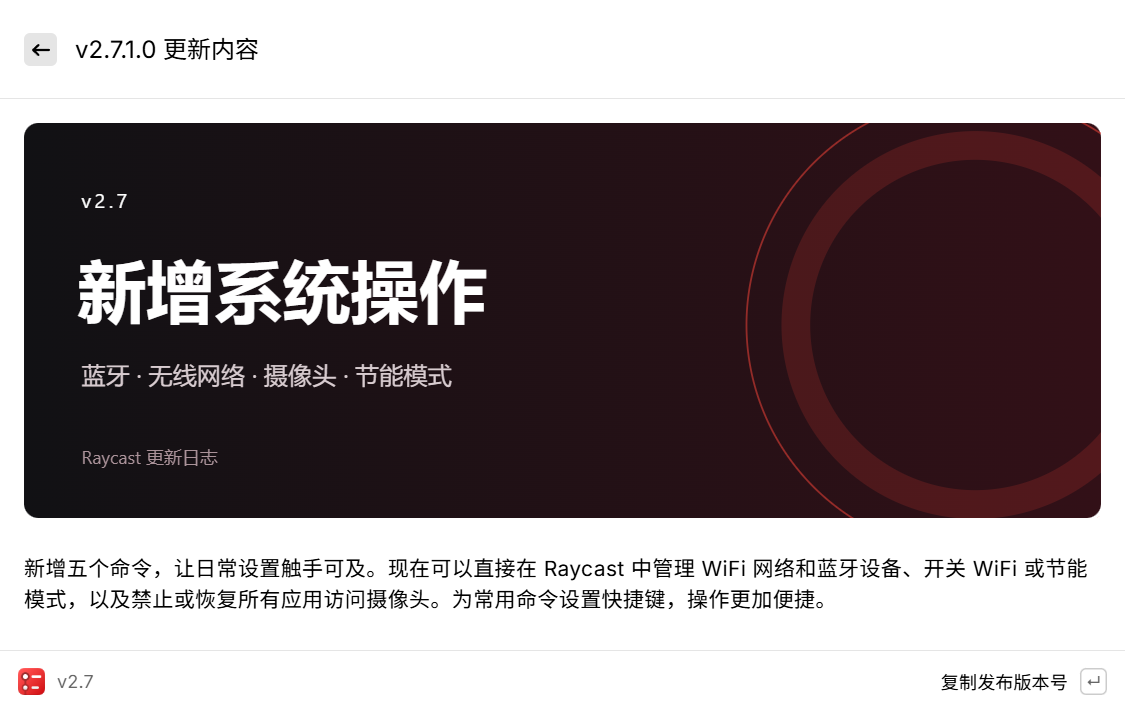
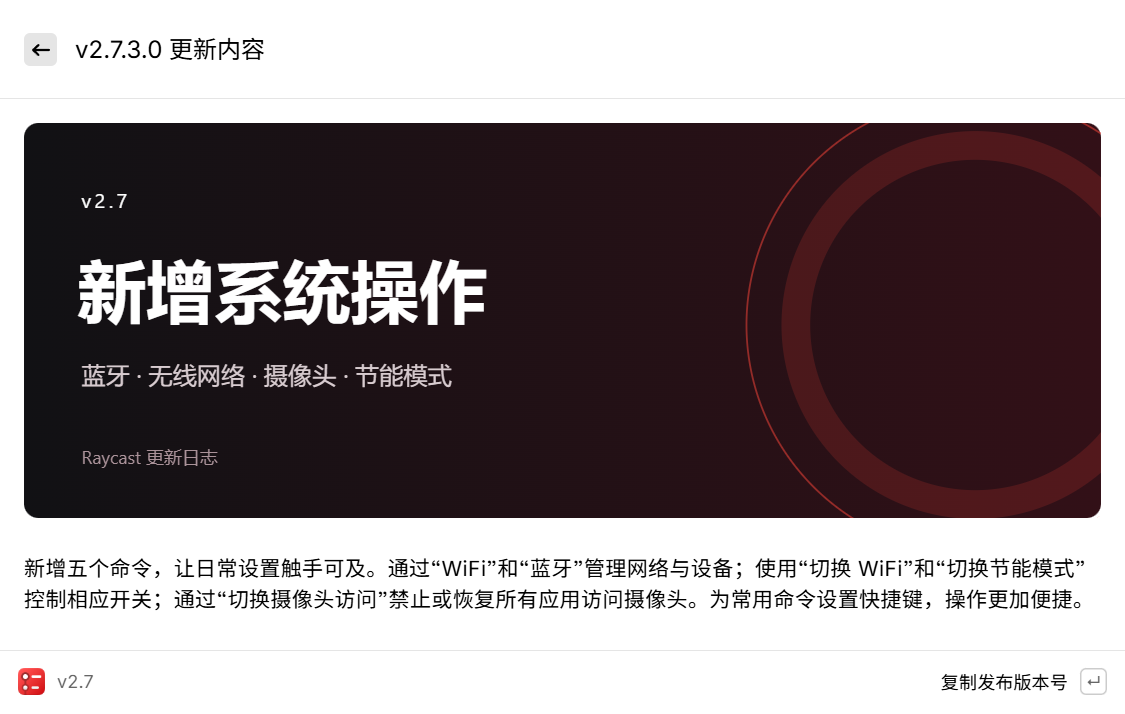
feat: support Raycast Windows 2.7.3.0

Changed region(s): [[0.0, 0.7703, 0.9644, 0.8627], [0.0933, 0.0308, 0.2489, 0.0924]]

diff --git a/docs/validation.md b/docs/validation.md
@@ -1,5 +1,13 @@
 # Windows 汉化验收记录
 
+## 2.7.3.0-r1（2026-10-13）
+
+- 适配 Microsoft Store Raycast 2.7.3.0 x64，更新全部资源指纹。
+- 173 个资源文件、7,869 处显示修改；补充 2.7.3.0 更新日志标题与调整后的说明。
+- 本机完成旧版卸载、新版安装及原版入口重启，主界面和更新日志显示中文。
+- 22 项自动化测试通过，包含两个版本更新日志的翻译和恢复检查。
+
+
 ## 2.7.1.0-r1（2026-10-08）
 
 - 适配 Microsoft Store Raycast 2.7.1.0 x64。21 项自动化测试通过。
@@ -53,6 +61,6 @@
 
 没有批量安装插件，没有登录外部服务，没有测试真实账号操作、付费功能、设备控制或所有命令。插件源码与 Store 已发布版本可能不同；运行时只翻译实际安装版本能安全识别的字面量。截图只显示本机已验收的界面，不代表所有页面均为中文。
 
-**尚未在第二台真实电脑验证完整安装和界面。** 支持条件是当前用户已安装 Microsoft Store Raycast 2.7.1.0 x64 且指纹匹配。不能据此保证其他版本、ARM64、组织管理策略限制的环境或所有插件流程均可用。
+**尚未在第二台真实电脑验证完整安装和界面。** 支持条件是当前用户已安装 Microsoft Store Raycast 2.7.3.0 x64 且指纹匹配。不能据此保证其他版本、ARM64、组织管理策略限制的环境或所有插件流程均可用。
 
 更新保护：主程序版本或指纹变化时拒绝加载。插件更新时重新备份并分析；不支持的语法跳过并记录。汉化文件被用户手动修改时，卸载拒绝覆盖该文件并保留备份。

diff --git a/README.md b/README.md
@@ -2,7 +2,7 @@
 
 Raycast Windows Simplified Chinese Localization，支持主界面、设置、商店、更新日志和热门插件。非官方项目。
 
-**适配 Microsoft Store 版 Raycast 2.7.1.0 x64。**
+**适配 Microsoft Store 版 Raycast 2.7.3.0 x64。**
 
 [下载 Windows 版](https://github.com/zwjtano/raycast-windows-zh-CN/releases/latest) · [macOS 版](https://github.com/zwjtano/raycast-macos-zh-CN)
 
